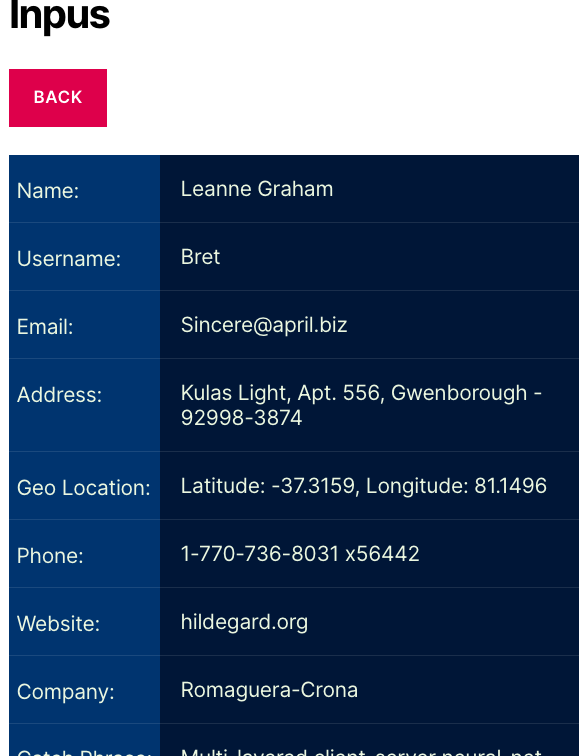
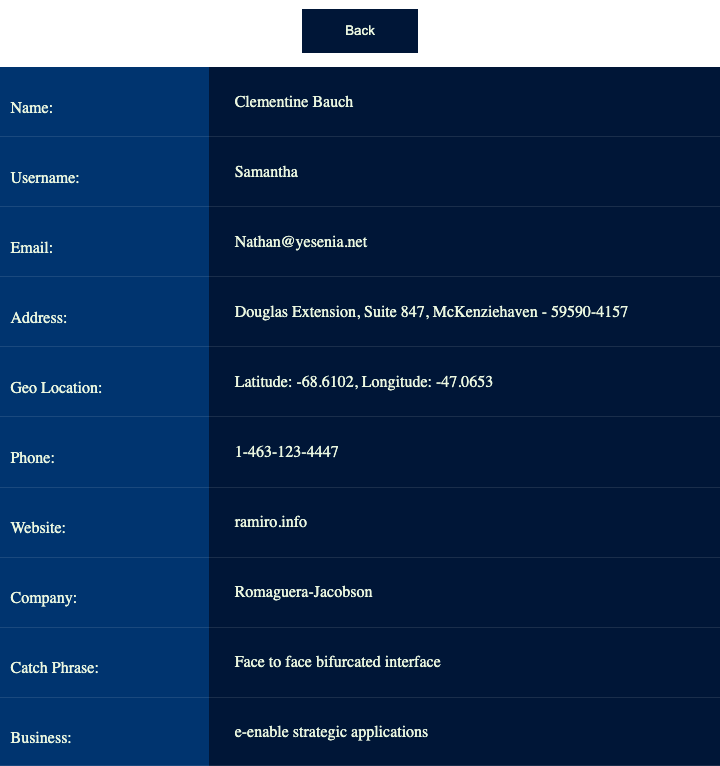
updated readme and comments

diff --git a/js/main.js b/js/main.js
@@ -1,46 +1,44 @@
 /*
     DEVELOPER REFERENCE
    *********************
-
-    Breakdown of logic.
--------------------------------------------------------------------------------------------------------------------------------------------------------
-    Click events (These are valid from start to the end of window lifecycle) -  
-
-    1. dropdown.onclick - 
-       a. As soon as the dropdown button is clicked, dropdownClicked() function is called to display table with user list.
-    2. dropdownClicked also provides a click option. Each item displayed in the table are clickable divs and they have the 
-       following click option - 
-       a. onclick = fetchUser() - To display the details of the clicked user.
-    3. back.onclick - Click event that calls navigateBack() to navigate to the previous screen.
-    4. reloadButton.onclick - deletes local storage and reloads the page.
--------------------------------------------------------------------------------------------------------------------------------------------------------
     
     Functions
 
-    1. dropdownClicked(dropdown, display1, back)
-       a. Takes in three DOM parameters - dropdown, display1 and back.
+    1. loadData(display1)
+       a. Takes in three DOM parameters - display1.
        b. Checks if the id of next user is present in the local storage. If not, 1 is set as the next user_id.
        c. Request is made to the user api to fetch the user with next user id.
        d. If the request is successful, this means a new user has been added and the user list present in 
           the local storage has to be refreshed.
        e. If the request responds with 404, the list from local storage can be displayed, skipping the api 
           call to fetch all users.
-       f. Caching method is used for this data because this step displays username, name of the user and user id. 
+       f. Caching method is used for this data because this step displays username, name of the user, user id, user email and phone number. 
           This data hardly changes. But if it still changes, reload option is provided
        g. Using data from api call or from the local storage, displayFirst() function is called to display fetched data.
-    2. displayFirst(data, dropdown, back, display1)
-       a. this performs basic DOM operations to hide the dropdown button, display the next button and to write the data into 
-          the widget's div tag.
+    2. displayFirst(data, display1)
+       a. Takes in data returned by load data and a DOM parameter - display1.
+       b. This performs basic DOM operations display the user list by writing the data into 
+          the page's div tag.
     3. fetchUser(i) 
-       a. This function fetches individual user data from the api and calls the displaySecond() function.
-    4. displaySecond() - 
+       a. Takes in the ID of the clicked user.
+       b. This function fetches individual user data from the api and calls the displaySecond() function.
+    4. displaySecond(data) - 
+       a. Takes in the data of the user returned by the fetchUser() function.
        a. This function displays the data fetched in the previous function.
     5. navigateBack() - 
        a. Performs dom operation to display the previous screen.
     6. reloadData() - 
        a. Clears local storage.
-       b. reloads the page.
-       c. this is to reflect any change in username, User ID or name of the user.
+       b. Reloads the page.
+       c. This is to reflect any change in username, User ID or name of the user.
+    7. getMiniSuggestions(keyword) - 
+       a. Takes in the keyword entered in the search box.
+       b. Calls searchDataForKeyword() for obtaining array of users that have a match with the keyword.
+       c. Displays the array of users as suggestions.
+    8. searchDataForKeyword(data, keyword).
+       a. Takes in user data and keyword from getMiniSuggestions().
+       b. Checks if the keyword is present in any of the information item of the user.
+       c. Returns all the matching users in an array of objects.
 -------------------------------------------------------------------------------------------------------------------------------------------------------
 
 */

diff --git a/css/style.css b/css/style.css
@@ -13,6 +13,11 @@
     color: #021935;
 }
 
+#heading a {
+    text-decoration: none;
+    color: #021935;
+}
+
 #tagline {
     font-size: 200%;
     color: #EDF5E1;
@@ -32,6 +37,10 @@
     text-align: center;
 }
 
+#inpus-display-1 {
+    width: 90%;
+}
+
 #inpus-display-2 {
     width: 50%;
 
@@ -44,14 +53,15 @@
 }
 
 #inpus-back {
+    margin-top: 1%;
     margin-bottom: 1%;
-    margin-top: 2%;
     padding: 1%;
     padding-left: 3%;
     padding-right: 3%;
     border: none;
     background-color: #021935;
     color: #EDF5E1;
+    cursor: pointer;
 }
 
 .inpus-head {
@@ -95,8 +105,20 @@
 
 #inpus-reload-list {
     cursor: pointer;
-    margin-bottom: 1%;
     text-align: right;
+    margin: auto;
+    padding: 1%;
+    padding-left: 2%;
+    padding-right: 2%;
+    width: 10%;
+}
+
+#inpus-reload-list button {
+    padding: 10%;
+    border: none;
+    background-color: #021935;
+    color: #EDF5E1;
+    cursor: pointer;
 }
 
 #miniSuggestions {
@@ -111,3 +133,4 @@
     border: 1px solid #02193511;
     cursor: pointer;
 }
+

diff --git a/html/index.php b/html/index.php
@@ -6,20 +6,21 @@
     <meta charset="UTF-8">
     <meta name="viewport" content="width=device-width, initial-scale=1.0">
     <link rel="stylesheet" href="../css/style.css">
-    <title>Document</title>
+    <link rel="stylesheet" href="<?php get_stylesheet_uri() ?>">
+    <title><?php echo bloginfo('name'); ?> - <?php echo bloginfo('description'); ?></title>
 </head>
 <body>
     <div id="siteDetails">
-        <div id="heading"><?php echo bloginfo('name'); ?> Users</div>
+        <div id="heading"><a href="<?php echo bloginfo('url') ?>"><?php echo bloginfo('name'); ?> Users</a></div>
         <div id="tagline"><?php echo bloginfo('description'); ?></div>
     </div>
     <div class='inpus-main'>
-		<button id='inpus-back'>Back</button>
+        <button id='inpus-back'>Back</button>
+		<a id='inpus-reload-list'><button>Reload Data</button></a>
 		<div id='inpus-display-1'></div>
         <div id='inpus-display-2'></div>
-        <br>
-		<a id='inpus-reload-list'>Reload Data (will reload this page)</a>
-	</div>
+    </div>
+    <br>
     <script src="../js/main.js"></script>
 </body>
 </html>

diff --git a/README.md b/README.md
@@ -11,18 +11,23 @@ This plugin is developed using the following technologies -
 - CSS
 - AJAX
 
-As its core logic, the plugin presents an endpoint which is the only means to access it. 
+As its core logic, the plugin presents a search box and a link below the the search box which are the only means to access it. 
 
- On, clicking this endpoint, a call is made to a REST api (https://jsonplaceholder.typicode.com/users) that responds with a user list in JSON format.
+Names, Usernames, Email IDs, Cities, Phone numbers etc can be entered into the search box. As the keyword is being typed in the search box, suggestions appear. On clicking the suggestion, the user which contains the keyword being entered will be displayed below.
 
- The plugin processes this response and displays the following user details -  
+ On, clicking the link below the searchbox, it will redirect to the plugin webpage that displays user id, name, username, email id and phone number of all users that are returned after making an AJAX call to a REST api (https://jsonplaceholder.typicode.com/users) that responds with a user list in JSON format.
+
+ The plugin processes this response and displays the following user details in a table format -  
 - User ID 
 - Name of the user  
-- username in a table format. 
+- username 
+- Email ID
+- Phone number
+
  
  Each user item listed in the table is clickable.  
 
- On clicking the user item, the plugin makes a call to the same REST api (https://jsonplaceholder.typicode.com/users/{user_id}), but this time it appends the user id at the end to fetch the detail of the individual user.
+ On clicking the user item, the plugin makes an AJAX call to the REST api (https://jsonplaceholder.typicode.com/users/{user_id}), but this time it appends the user id at the end to fetch the detail of the individual user.
 
 
  Once the request is made, the response of the REST api is then listed out in the table format.  
@@ -57,23 +62,32 @@ Now hover over the appearance tab and click on widgets. From the left column of 
 This will successfully install, activate and place the plugin into your website. Now you can visit your website to try out the plugin.
 
 ## Usage
-Now that you have activated the plugin, you can find find a button that looks as below -  
+Now that you have activated the plugin, you can find a widget that looks as below -  
 
-![plugin-endpoint](docs/PluginEndpoint.png)  
+![plugin-widget](docs/widget.png)  
 
-You can click the button to get a list of user. The list of users will be listed out in the following format -  
+As soon as you start typing in the search box, you can see suggestions to the keyword.
+
+![plugin-suggestions](docs/suggestions.png)
+
+You can click on a suggestion to display user details that contains the suggestion in any of the user information.
+
+![plugin-user-info](docs/miniUserInfo.png)
+
+You can click the link below the search button to redirect to a page with the list of users. The list of users will be listed out in the following format -  
 
 ![user-list](docs/UserList.png)
 
-Like mentioned in the description, The items listed in the above tables are clickable. User can click the back button to move to the previous display. User can also click the reload data link to reload the list data and also the page. On clicking any of the items in the above table another table will be displayed with the details of the selected user in a format shown below - 
+Like mentioned in the description, The items listed in the above tables are clickable. User can click the reload data button to reload the list data and also the page. On clicking any of the items in the above table another table will be displayed with the details of the selected user in a format shown below - 
 
 ![user-details](docs/UserDetails.png)
 
-The user again has the option to navigate to the previous display by pressing the back buton.
+The user has the option to navigate to the previous display by pressing the back buton.
 
 ## Caching
-The plugin uses local storage to cache list of users returned when the first "CLICK HERE TO GET A LIST OF USERS" button is pressed. The caching logic is applied here because, on pressing this button the details displayed are the user id, name of the user and the user name. These details hardly change as opposed to the user details that change quite often. So it is a good idea to cache these details.
-Even so, if required, an option to clear the local storage and reload the entire page is provided as "Reload Data link".
+The plugin uses local storage to cache list of users returned when the JSON placeholder API is called as soon as the window loads. The caching logic is applied here because, on pressing this button the details displayed are the user id, name of the user, username, email ID and phone number. These details hardly change as opposed to the user details that change quite often. So it is a good idea to cache these details.
+Moreover, caching the user list on window load is a good idea to provide suggestions while entering on the text box. But when the volume of the data returned by the api increases to a greater value, some other caching technique has to be thought of, as caching large volume of data in local storage may slow the browser down.
+Also, if required, an option to clear the local storage and reload the entire page is provided as "Reload Data link".
 
 ## Unit Testing
 
